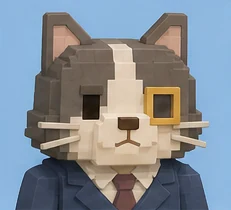
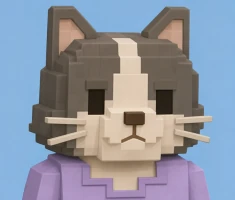
Match dialogue portraits to voxel characters

diff --git a/src/dialoguePortraits.ts b/src/dialoguePortraits.ts
@@ -58,6 +58,6 @@ export function getDialoguePortrait(speaker: string): string | null {
   const url = new URL(`./portraits/${slug}.webp`, document.baseURI);
   // Public portrait filenames stay stable, so bump this whenever the atlas is
   // recut to prevent browsers from reusing an older, badly framed crop.
-  url.searchParams.set('v', '20260727-5');
+  url.searchParams.set('v', '20260727-6');
   return url.href;
 }
